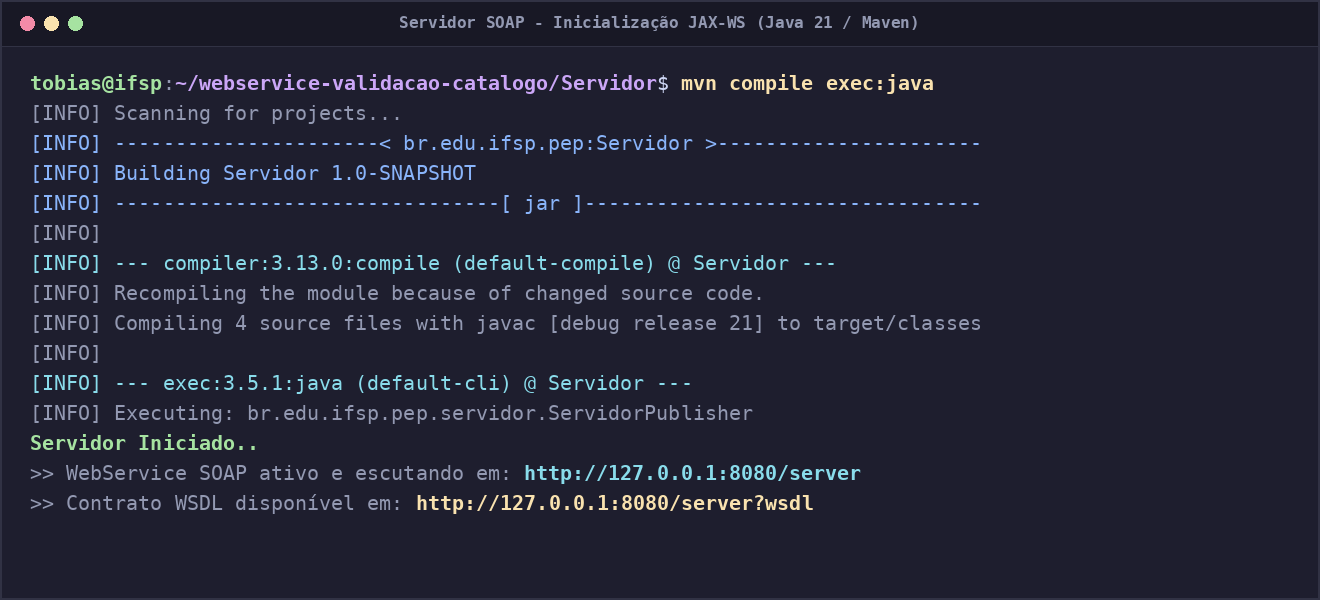
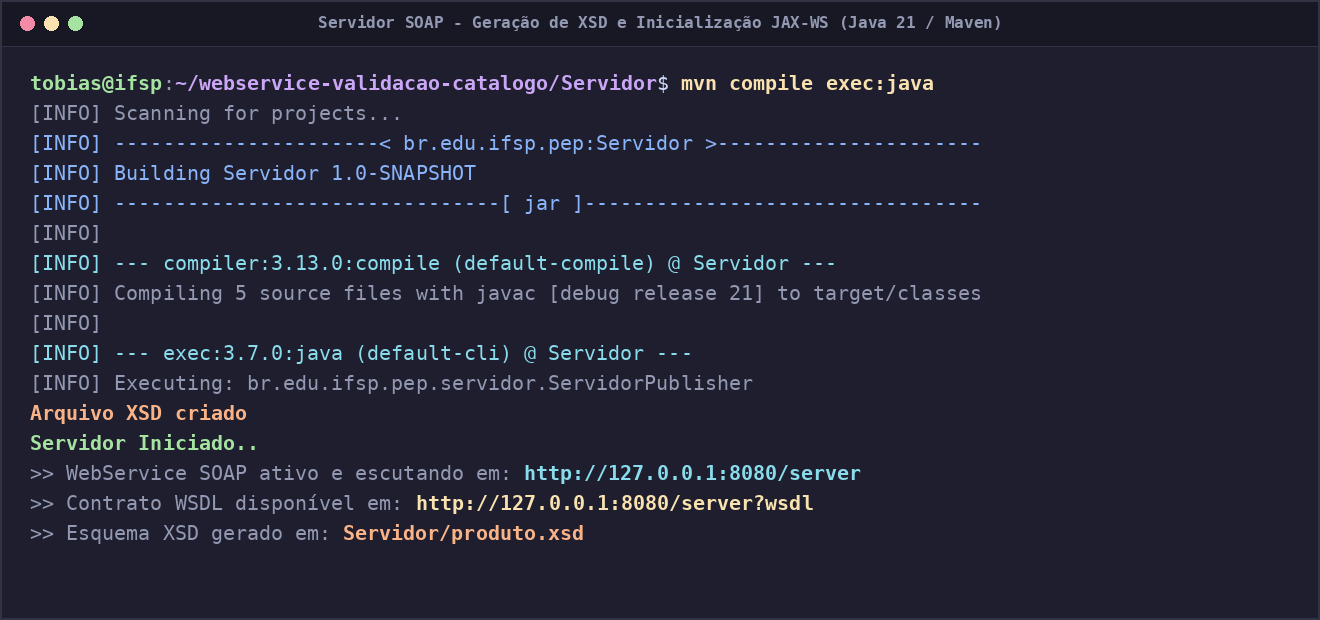
feat: adiciona geracao de schema XSD no servidor e validacao de resposta no cliente
- Adiciona classe GerarXSD para criacao dinamica do arquivo produto.xsd com esquemas de requisicao e resposta
- Aciona GerarXSD.gerar() no ServidorPublisher antes de publicar o Endpoint JAX-WS
- Integra validacao de esquema XML (produto.xsd) no cliente Python com lxml.etree.XMLSchema
- Atualiza dependencias no requirements.txt com lxml
- Atualiza e inclui prints de evidencias de execucao e validacao XSD em docs/prints
- Atualiza README.md documentando detalhadamente a implementacao e testes

diff --git a/Servidor/src/main/java/br/edu/ifsp/pep/servidor/GerarXSD.java b/Servidor/src/main/java/br/edu/ifsp/pep/servidor/GerarXSD.java
@@ -1,0 +1,55 @@
+package br.edu.ifsp.pep.servidor;
+
+import java.io.File;
+import java.io.FileWriter;
+import java.io.IOException;
+
+public class GerarXSD {
+
+    public static void gerar() {
+
+        File arquivo = new File("produto.xsd");
+
+        if (!arquivo.exists()) {
+
+            try (FileWriter escritor = new FileWriter(arquivo)) {
+
+                escritor.write("""
+                    <?xml version="1.0" encoding="UTF-8"?>
+                    
+                    <xs:schema xmlns:xs="http://www.w3.org/2001/XMLSchema">
+                    
+                        <xs:element name="verificarProduto">
+                            <xs:complexType>
+                                <xs:sequence>
+                                    <xs:element name="nomeProduto" type="xs:string"/>
+                                </xs:sequence>
+                            </xs:complexType>
+                        </xs:element>
+                    
+                        <xs:element name="verificarProdutoResposta">
+                            <xs:complexType>
+                                <xs:sequence>
+                                    <xs:element name="retorno" type="xs:boolean"/>
+                                </xs:sequence>
+                            </xs:complexType>
+                        </xs:element>
+                    
+                    </xs:schema>
+                    """);
+
+                System.out.println("Arquivo XSD criado");
+
+            } catch (IOException e) {
+
+                System.out.println("Erro ao gerar XSD: " + e.getMessage());
+
+            }
+
+        } else {
+
+            System.out.println("XSD já existe");
+
+        }
+    }
+}

diff --git a/Cliente/cliente.py b/Cliente/cliente.py
@@ -1,8 +1,12 @@
 from zeep import Client
+from lxml import etree
 
 url = "http://127.0.0.1:8080/server?wsdl"
 
 cliente = Client(url)
+
+schema_doc = etree.parse("../Servidor/produto.xsd")
+schema = etree.XMLSchema(schema_doc)
 
 nomeProduto = input("Digite o nome do produto ou -1 para sair: ")
 
@@ -10,11 +14,21 @@ while nomeProduto != "-1":
 
     resultado = cliente.service.verificarProduto(nomeProduto)
 
-    if resultado:
-        print("O produto pertence ao catalogo da Rare Beauty")
+    resposta = etree.Element("verificarProdutoResposta")
+    retorno = etree.SubElement(resposta, "retorno")
+    retorno.text = str(resultado).lower()
+
+    if schema.validate(resposta):
+        if resultado:
+            print("O produto pertence ao catalogo da Rare Beauty")
+        else:
+            print("O produto nao pertence ao catalogo da Rare Beauty")
+
     else:
-        print("O produto nao pertence ao catalogo da Rare Beauty")
+        print("Resposta do XSD eh invalida")
+        print(schema.error_log)
 
     nomeProduto = input("Digite o nome do produto ou -1 para sair: ")
-    if(nomeProduto == "-1"):
-        print("Programa finalizado \n")
+
+    if nomeProduto == "-1":
+        print("Programa finalizado")

diff --git a/Servidor/src/main/java/br/edu/ifsp/pep/servidor/ServidorPublisher.java b/Servidor/src/main/java/br/edu/ifsp/pep/servidor/ServidorPublisher.java
@@ -13,6 +13,8 @@ import javax.xml.ws.Endpoint;
 public class ServidorPublisher {
 
     public static void main(String[] args) {
+        GerarXSD.gerar();
+        
         Endpoint.publish("http://127.0.0.1:8080/server",
                 new ServidorImpl());
         System.out.println("Servidor Iniciado..");
